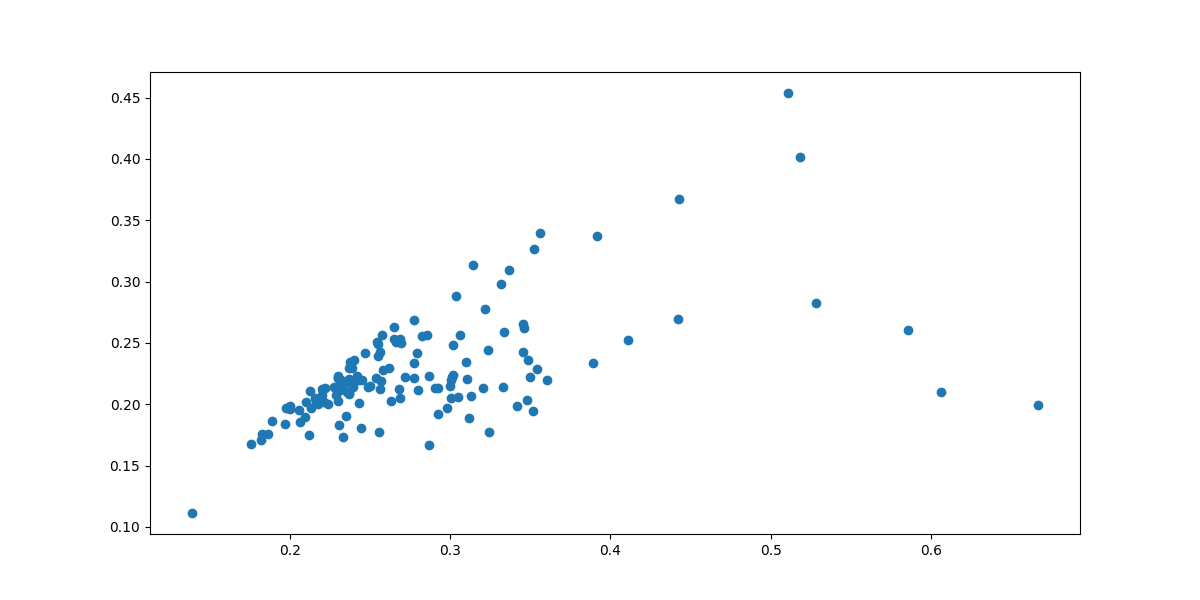
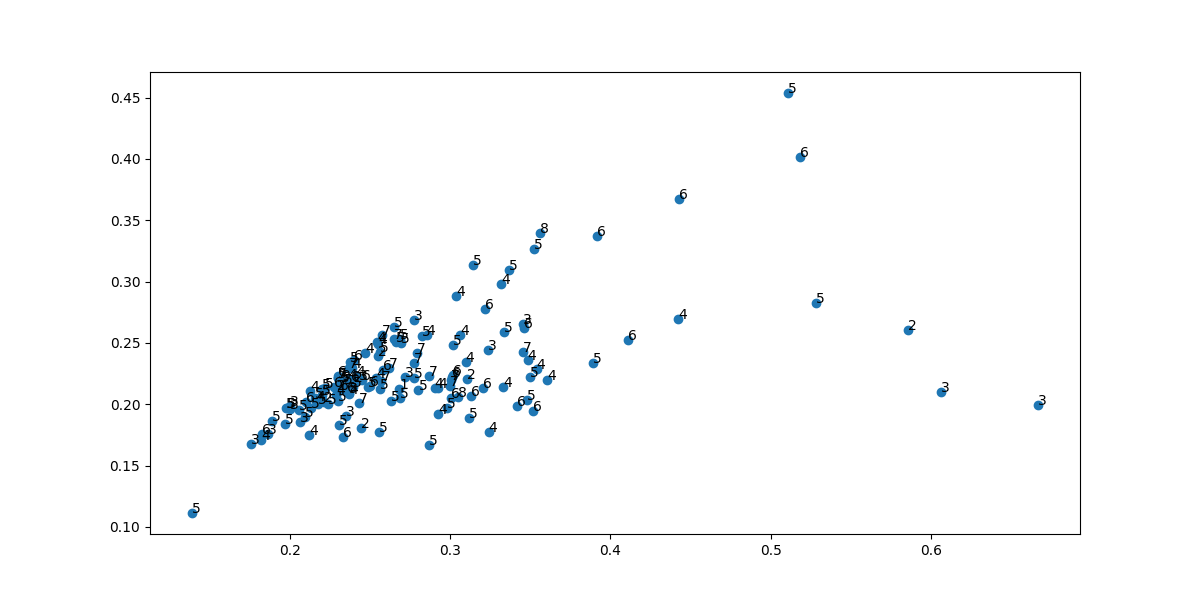
updated

Changed region(s): [[0.2158, 0.54, 0.4317, 0.72], [0.4317, 0.57, 0.4625, 0.63], [0.4317, 0.66, 0.4625, 0.69]]

diff --git a/analyzer.py b/analyzer.py
@@ -134,7 +134,7 @@ def svd_tensors():
     return None
 
 def eigens_scattering():
-    print('here')
+
     epoch_list = np.linspace(10, 100, 10, dtype='int')
 
     matrices_math = './saved/models/matrices'
@@ -143,6 +143,8 @@ def eigens_scattering():
 
     total_points = []
     for i, num in enumerate(epoch_list):
+        df = pd.read_csv(f'./csv_files/project_2.1/epoch_{num}/data_frame.csv')
+        targets = np.floor(df.target.to_numpy()).astype(int)
         matrix = torch.load(os.path.join(matrices_math, f'weights_tensor_{num}epoch.pt'), map_location=torch.device('cpu'))
         x = matrix.cpu().numpy()
         data = x
@@ -161,19 +163,25 @@ def eigens_scattering():
 
         plt.clf()
         ax = fig.add_subplot(projection='3d')
-        ax.scatter(total_points[i,:,0], total_points[i,:,1], total_points[i,:,2], marker='o')
+        ax.scatter(total_points[i,:,0], total_points[i,:,1], total_points[i,:,2])
         plt.savefig(os.path.join(my_path, f'{num}_epoch_3d'))
 
         plt.clf()
         plt.scatter(total_points[i,:,0], total_points[i,:,1])
+        for j, txt in enumerate(targets):
+            plt.annotate(txt, (total_points[i,j,0], total_points[i,j,1]))
         plt.savefig(os.path.join(my_path, f'{num}_epoch_2d_xy'))
 
         plt.clf()
         plt.scatter(total_points[i,:,0], total_points[i,:,2])
+        for j, txt in enumerate(targets):
+            plt.annotate(txt, (total_points[i,j,0], total_points[i,j,2]))
         plt.savefig(os.path.join(my_path, f'{num}_epoch_2d_xz'))
 
         plt.clf()
         plt.scatter(total_points[i,:,1], total_points[i,:,2])
+        for j, txt in enumerate(targets):
+            plt.annotate(txt, (total_points[i,j,1], total_points[i,j,2]))
         plt.savefig(os.path.join(my_path, f'{num}_epoch_2d_yz'))
 
 if __name__ == '__main__':
